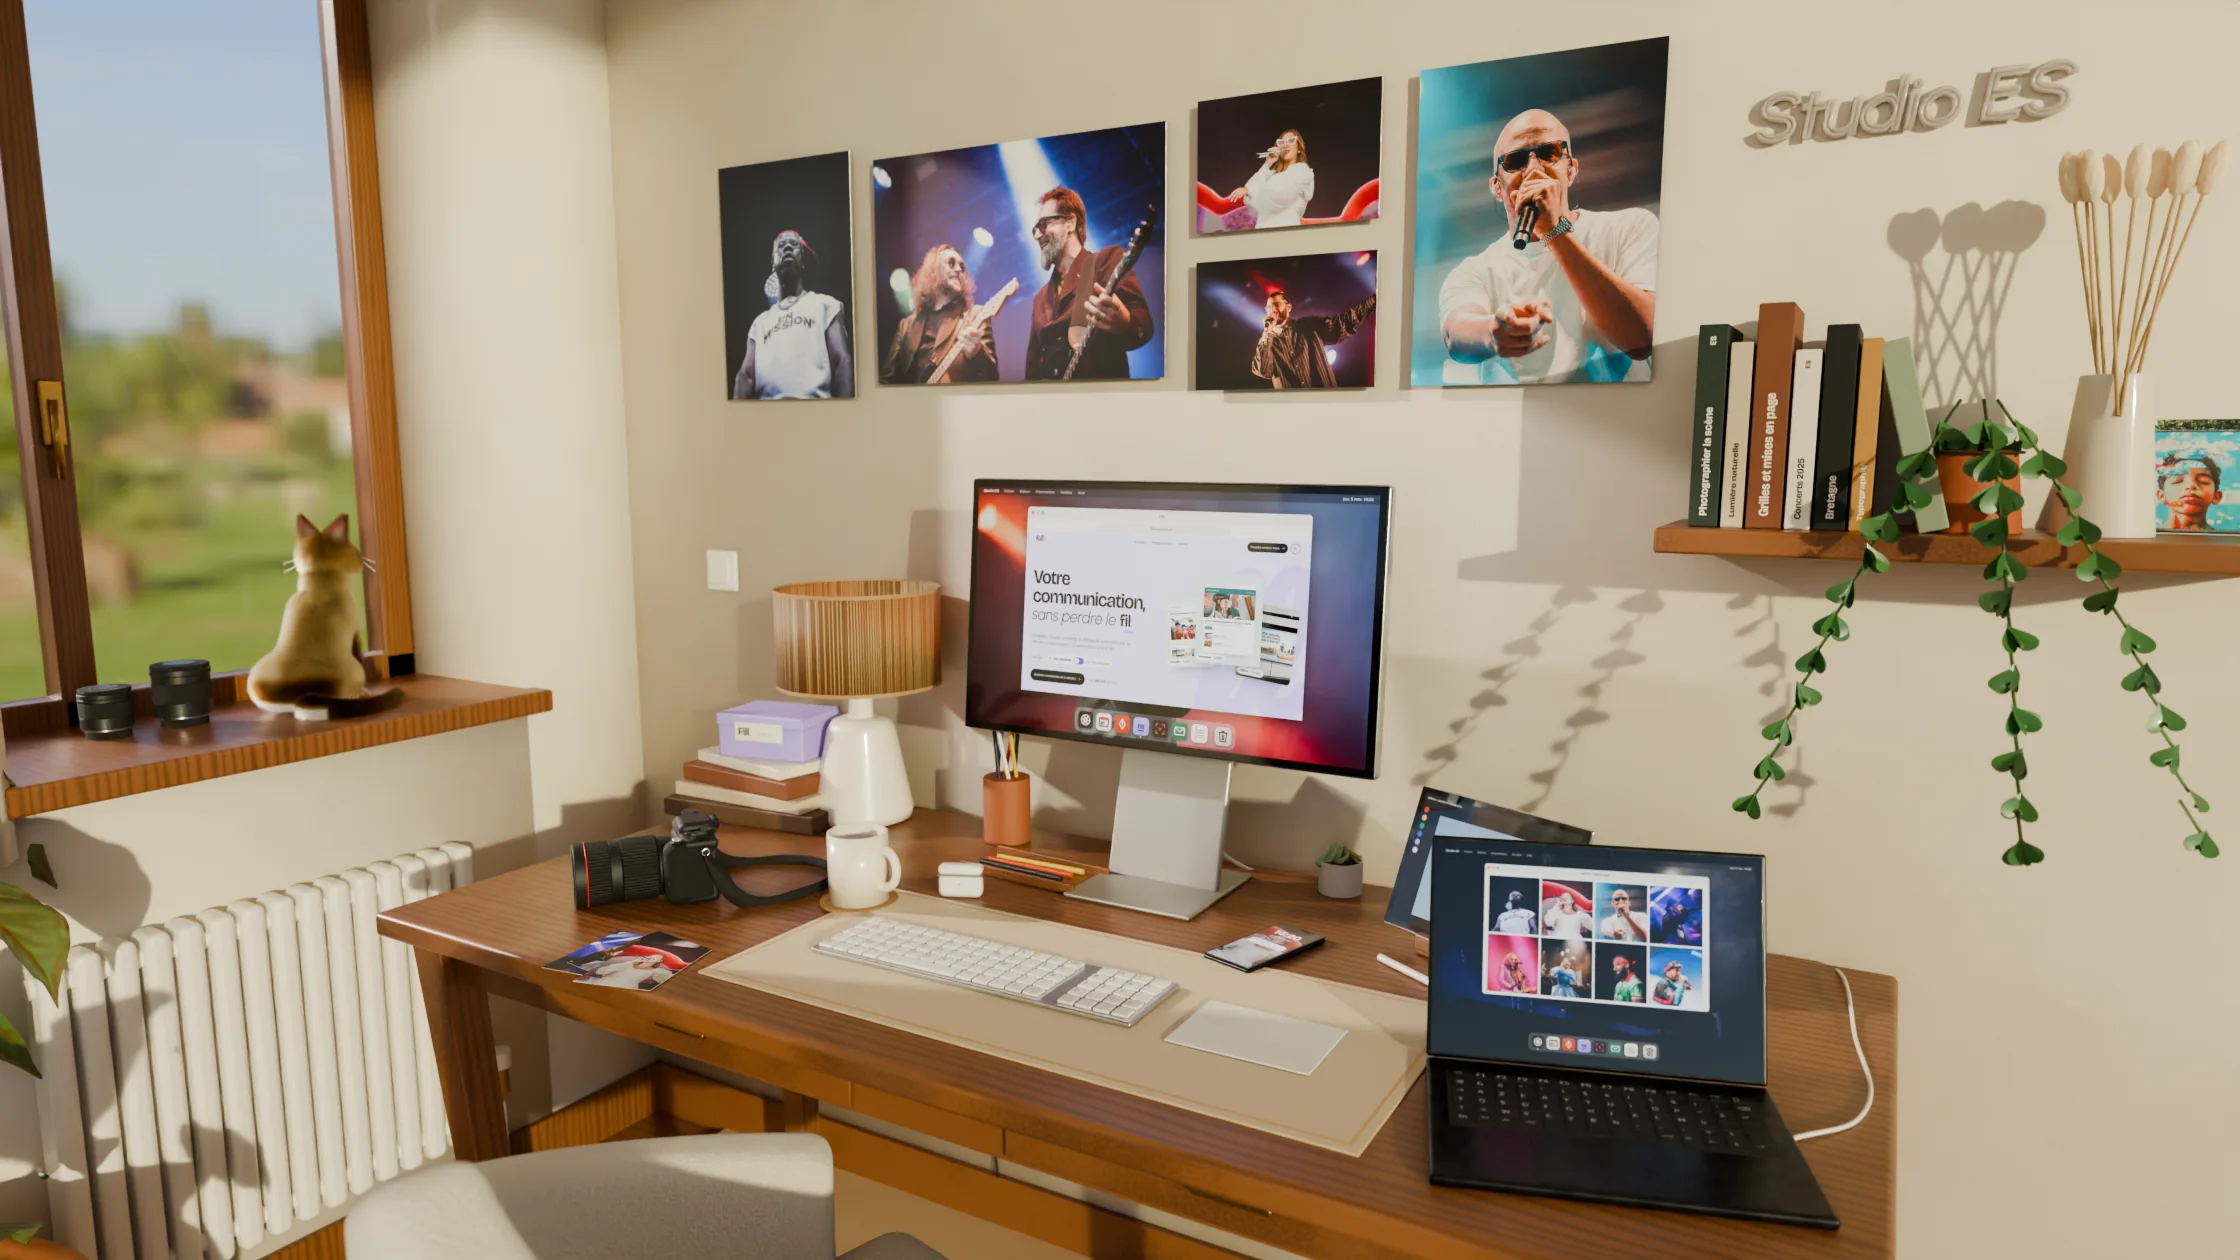
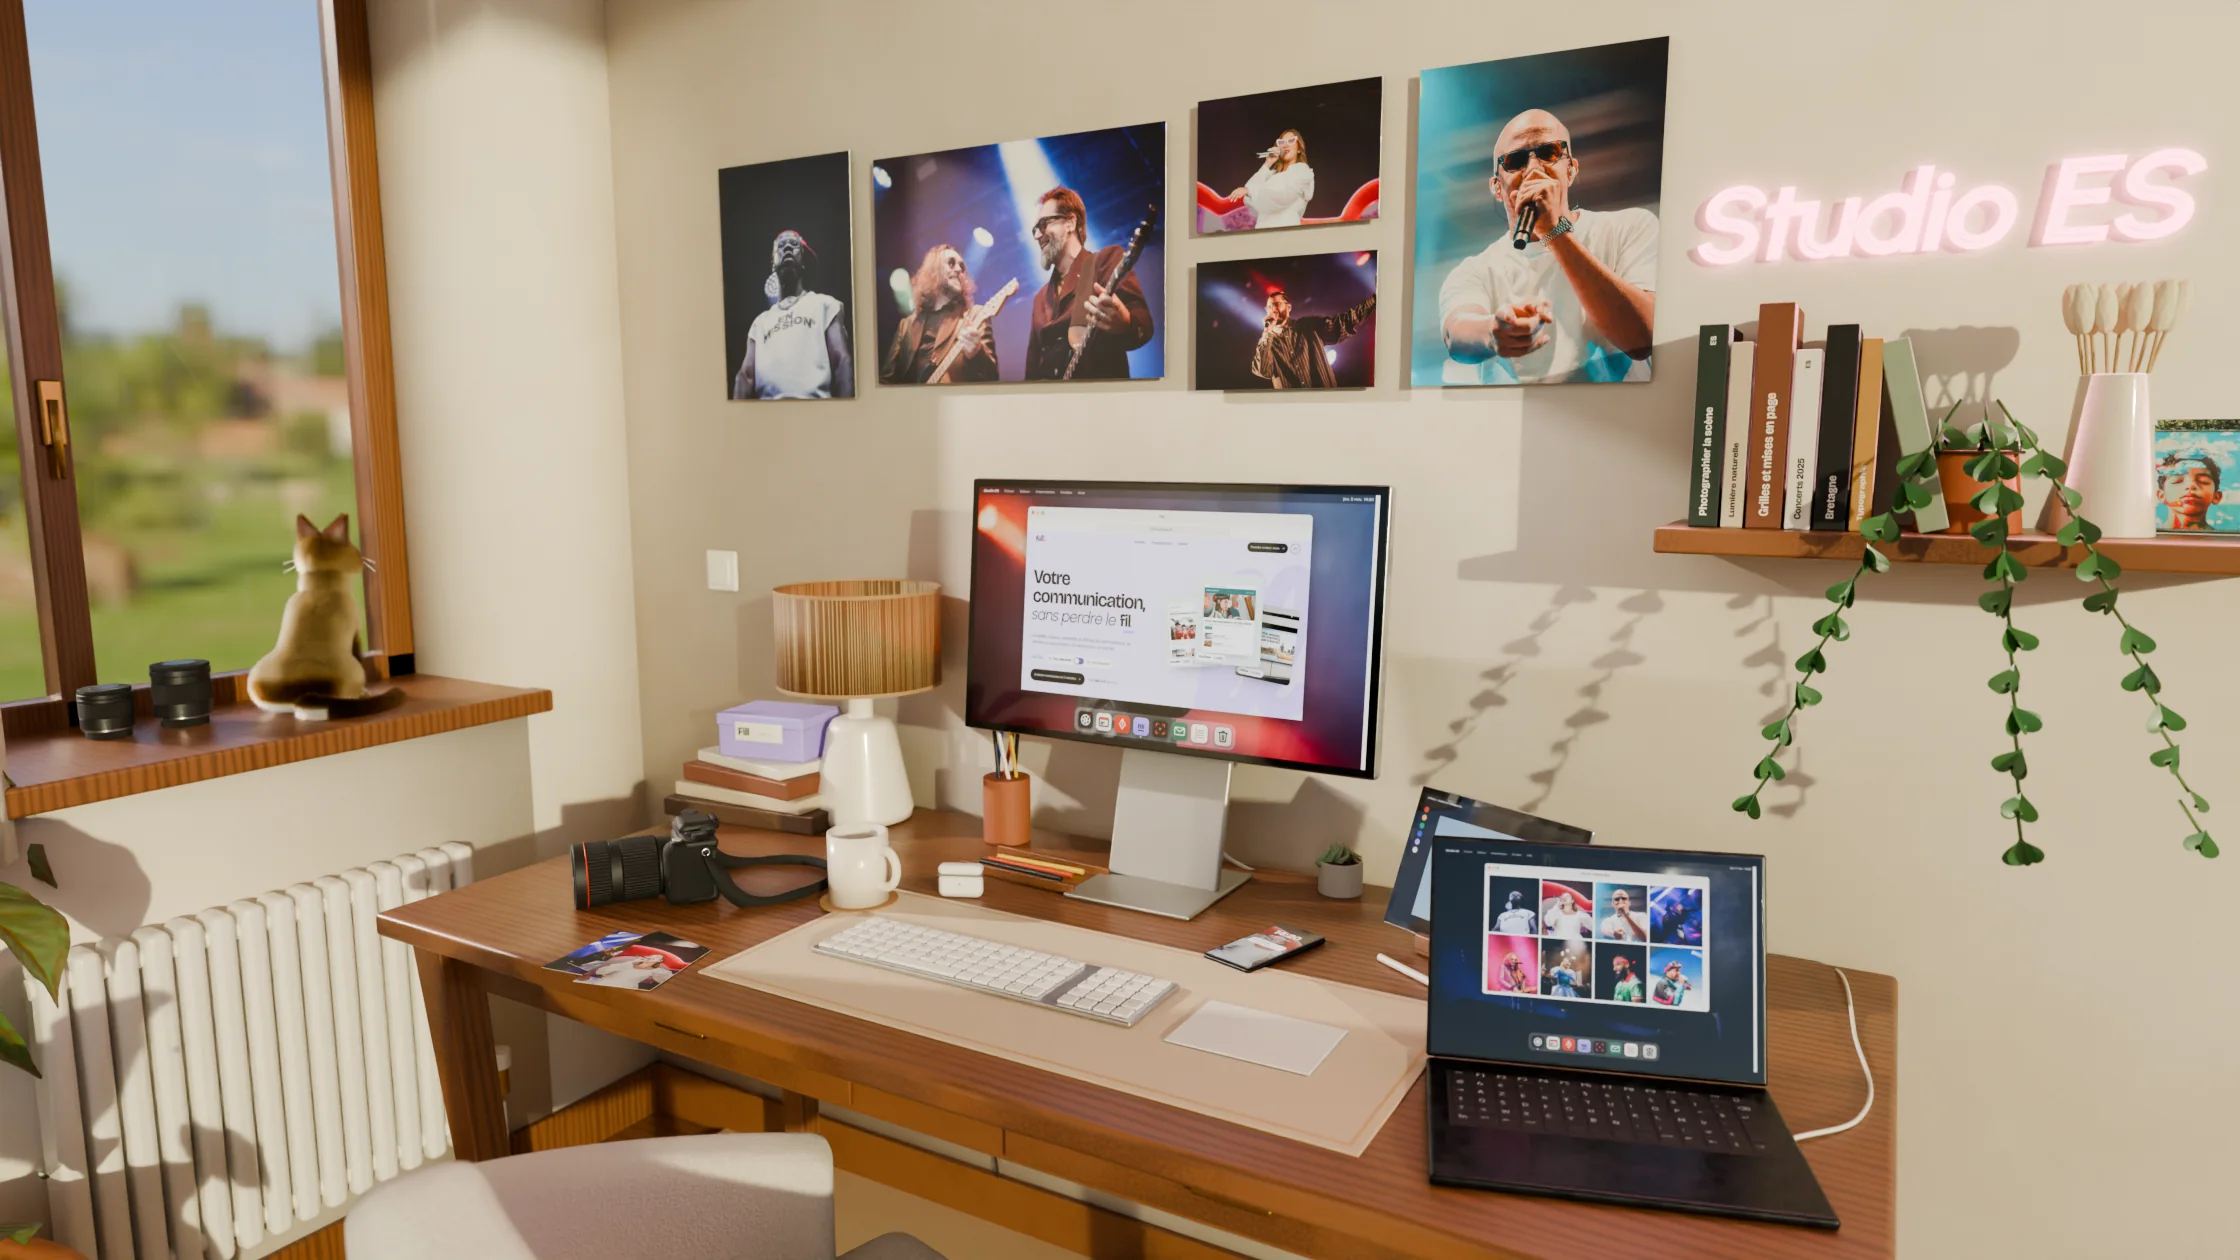
Bannière : avancée nette au défilement (parallaxe de profondeur), rendus nuit et jour avec la nouvelle enseigne, intégration des rendus
En cours, non publié.

Claude-Session: https://claude.ai/code/session_01C8UkoM7u44CkTFbZnWaAKK

diff --git a/js/atelier.js b/js/atelier.js
@@ -20,7 +20,7 @@ import { Bureau } from '/js/atelier/bureau.js?v=2';
   let dejaVu = false; try { dejaVu = !!sessionStorage.getItem('at-vu'); sessionStorage.setItem('at-vu', '1'); } catch (e) {}
   const INTRO = RM ? 0 : (dejaVu && !/[?&]arrivee/.test(location.search)) ? 1 : 2;
   const poseFond = () => { H.style.setProperty('--at-img', 'url("' + nom(lampe) + '")'); H.style.removeProperty('background'); };
-  if (INTRO) { H.classList.add('at-intro'); H.style.background = '#0F1013'; } else poseFond();
+  if (INTRO) { H.classList.add('at-intro'); H.style.background = SOIR ? '#0F1013' : '#16150F'; } else poseFond();
 
   /* ---------- panneau et puces (fonctionnent même sans WebGL) ---------- */
   let ouverte = null, vue = null;
@@ -91,7 +91,7 @@ import { Bureau } from '/js/atelier/bureau.js?v=2';
     /* ---------- shaders ---------- */
     const VS = 'attribute vec2 p;varying vec2 u;void main(){u=vec2(p.x*.5+.5,.5-p.y*.5);gl_Position=vec4(p,0.,1.);}';
     const FS = `precision highp float;varying vec2 u;
-uniform sampler2D tA,tB,tM,tD,tS,tP,tC,tK,tF,tG;uniform vec4 uW;uniform mat3 uFs,uFp,uFq,uGs,uGp,uGq;uniform vec4 uR,uDR,uRC,uKR,uAP;uniform vec2 uPar,uTx,uTea;uniform float uHovA,uMix,uHov,uT,uFl,uNe,uPl,uSt,uDu,uB,uK,uCM,uKF,uKOn,uCZ,uOn,uNm,uNj;uniform vec3 uE;uniform vec4 uNR;
+uniform sampler2D tA,tB,tM,tD,tS,tP,tC,tK,tF,tG;uniform vec4 uW;uniform mat3 uFs,uFp,uFq,uGs,uGp,uGq;uniform vec4 uR,uDR,uRC,uKR,uAP;uniform vec2 uPar,uTx,uTea;uniform float uHovA,uMix,uHov,uT,uFl,uNe,uPl,uSt,uDu,uB,uK,uCM,uKF,uKOn,uCZ,uOn,uNm,uNj;uniform vec3 uDol;uniform vec3 uE;uniform vec4 uNR;
 uniform mat3 uHs,uHp,uHl,uHs2,uHp2;
 float zid(vec2 q){return floor(texture2D(tM,q).r*255./20.+.5);}
 float h21(vec2 p){return fract(sin(dot(p,vec2(127.1,311.7)))*43758.5453);}
@@ -107,6 +107,7 @@ void main(){
   vec2 q=uR.xy+u*uR.zw;
   float dep=texture2D(tD,q).r;
   q+=uPar*(dep-.62)*vec2(.016,.011);
+  q-=(q-uDol.xy)*(dep-.76)*uDol.z;
   float z=zid(q);
   if(z==7.)q.x+=sin(uT*2.1+q.y*60.)*.0007*uPl;
   vec2 dn=max(abs(q-uNR.xy)-uNR.zw,0.);dn.x*=uTx.y/uTx.x;float nh=exp(-length(dn)/(uNR.w*3.+.015));
@@ -187,6 +188,7 @@ void main(){
     const IA = imA.width / imA.height, base = { x: (M.cadre || [.5, .5])[0], y: (M.cadre || [.5, .5])[1] };
     if (MOB && M.cibles && M.cibles.web) base.x = (M.cibles.web[0] + M.cibles.web[2]) / 2; /* mobile : de face, centré sur l'écran */
     let W = 1, Hh = 1, ech = 1, ec = 1, cx = base.x, cy = base.y, tcx = base.x, tcy = base.y, glisse = 0;
+    const cadreX = base.x;
     const rect = (s, x, y) => {
       const ca = W / Hh; let w = 1, h = 1; if (ca > IA) h = IA / ca; else w = ca / IA;
       w /= s * 1.035; h /= s * 1.035;
@@ -196,6 +198,8 @@ void main(){
     const taille = () => {
       const d = Math.min(devicePixelRatio || 1, MOB ? 2 : 1.75); W = H.clientWidth; Hh = H.clientHeight;
       C.width = Math.round(W * d); C.height = Math.round(Hh * d); gl.viewport(0, 0, C.width, C.height);
+      /* l'enseigne tient lieu de titre : dans une fenêtre étroite, le cadre glisse à droite pour la garder entière */
+      if (!MOB) { const w = Math.min(1, W / Hh / IA) / 1.035, bx = Math.max(cadreX, Math.min(1 - w / 2, NEON[0] + NEON[2] + .014 - w / 2)), dx = bx - base.x; base.x = bx; cx += dx; tcx += dx; }
     };
     taille(); addEventListener('resize', taille);
     let tw = null; // mouvement de caméra en cours
@@ -218,10 +222,10 @@ void main(){
     const chargeClose = (id) => closeIm[id] || (closeIm[id] = charge(R + 'c-' + id + '-' + moment + '.webp').catch(() => null));
     const volIm = {}, unites = gl.getParameter(gl.MAX_TEXTURE_IMAGE_UNITS);
     const chargeVol = (id) => volIm[id] || (volIm[id] = (VOLS[id] && unites >= 10 && !RM ? Promise.all(Array.from({ length: NV - 1 }, (_, k) => charge(R + 'v/' + id + '-' + moment + '-' + String(k + 1).padStart(2, '0') + '.webp'))) : Promise.reject()).catch(() => null));
-    let dMode = null, defile = false, spD = -1, imPh = null, enC = null;
+    let defile = false, spD = -1, enC = null, dolOn = false;
     if (!MOB && M.closeups) setTimeout(() => {
-      let k = chargeClose('photo').then(im => { imPh = im; }).then(() => chargeVol('photo')).then(fr => { if (fr) volIm.photo.v = fr; });
-      ['web', 'graph', 'fill', 'contact'].forEach(id => { k = k.then(() => chargeClose(id)).then(() => chargeVol(id)); });
+      let k = Promise.resolve();
+      ['photo', 'web', 'graph', 'fill', 'contact'].forEach(id => { k = k.then(() => chargeClose(id)).then(() => chargeVol(id)); });
     }, 1200);
     let cz = null, cm = 0, cmT = null, cT0 = 0, jeton = 0, vol = null;
     const HS2 = CL.web ? homo(CL.web.mon_screen) : null; if (HS2) gl.uniformMatrix3fv(U('uHs2'), false, HS2);
@@ -423,7 +427,8 @@ void main(){
           } else if (soirI) { gl.uniform1f(U('uNm'), f); it.mix = sm(TL, TL + .5, a); }
           else ne0 = f;
           if (it.m === 2) {
-            gl.uniform3f(U('uE'), reveil(a, 1.7), reveil(a, 2.1), reveil(a, 1.95));
+            /* de jour, les écrans se réveillent l'un après l'autre ; le soir ils veillent déjà, seule lumière de la pièce */
+            if (!SOIR) gl.uniform3f(U('uE'), reveil(a, 1.7), reveil(a, 2.1), reveil(a, 1.95));
             const p = Math.min(1, Math.max(0, (a - 1.35) / 2.2)), e = p < .5 ? 4 * p * p * p : 1 - Math.pow(-2 * p + 2, 3) / 2;
             ec = ech = vI[0] + (1 - vI[0]) * e; cx = tcx = vI[1] + (base.x + glisse - vI[1]) * e; cy = tcy = vI[2] + (base.y - vI[2]) * e;
           }
@@ -433,7 +438,6 @@ void main(){
       }
       /* défilement : la caméra entre dans la pièce, vers le mur de photos */
       const sp = it.fin ? Math.min(1, Math.max(0, scrollY / (Hh * .8))) : 0;
-      if (sp <= 0) dMode = null; else if (!dMode) dMode = (!MOB && imPh && NV && volIm.photo && volIm.photo.v) ? 'vol' : 'zoom';
       defile = sp > 0 && !ouverte && !vol && cm < .01;
       if (sp !== spD) { spD = sp; H.style.setProperty('--sd', sp.toFixed(3)); }
       if (tw) {
@@ -480,19 +484,12 @@ void main(){
         if (i >= 1) lie(8, vol.id, i, i + 1); if (i + 1 <= NV - 1) lie(9, vol.id, i + 1, i);
         gl.uniform4f(U('uW'), i === 0 ? 1 - b : 0, i >= 1 ? 1 - b : 0, i + 1 <= NV - 1 ? b : 0, i + 1 === NV ? b : 0);
         if (fini) { const f = vol.fin; vol = null; if (f) f(); }
-      } else if (defile && dMode === 'vol') {
-        if (enC !== 'photo') { maj(6, T.C, imPh); gl.uniform1f(U('uCZ'), 0); enC = 'photo'; }
-        const u = NV * sp, Rv = lerpR(rectBase(), rectClose(t, 0), lisse(sp));
-        gl.uniform4fv(U('uR'), Rv); gl.uniform4fv(U('uRC'), Rv);
-        const i = Math.min(NV - 1, Math.floor(u)), b = u - i;
-        if (i >= 1) lie(8, 'photo', i, i + 1); if (i + 1 <= NV - 1) lie(9, 'photo', i + 1, i);
-        gl.uniform4f(U('uW'), i === 0 ? 1 - b : 0, i >= 1 ? 1 - b : 0, i + 1 <= NV - 1 ? b : 0, i + 1 === NV ? b : 0);
       } else {
         gl.uniform4f(U('uW'), 1 - cm, 0, 0, cm); if (cm > 0) gl.uniform4fv(U('uRC'), rectClose(t));
-        if (defile) { /* sans travelling rendu (mobile) : une poussée vers le mur de photos et l'enseigne */
-          const b = (M.cibles && M.cibles.photo) || [.3, .1, .7, .3], e = lisse(sp), ty2 = MOB ? (NEON[1] + (b[1] + b[3]) / 2) / 2 : (b[1] + b[3]) / 2;
-          gl.uniform4fv(U('uR'), rect(ec + (MOB ? .32 : .5) * e, cx + (MOB ? 0 : ((b[0] + b[2]) / 2 - cx) * e), cy + (ty2 - cy) * e));
-        }
+        if (defile) { /* la caméra avance vers le mur de photos : poussée nette sur le rendu, les plans proches glissent plus vite (profondeur) */
+          const b = (M.cibles && M.cibles.photo) || [.3, .1, .7, .3], e = lisse(sp), ty2 = MOB ? (NEON[1] + (b[1] + b[3]) / 2) / 2 : (b[1] + b[3]) / 2, fx = MOB ? cx : cx + ((b[0] + NEON[0] + NEON[2]) / 2 - cx) * e, fy = cy + (ty2 - cy) * e;
+          gl.uniform4fv(U('uR'), rect(ec + (MOB ? .32 : .42) * e, fx, fy)); gl.uniform3f(U('uDol'), fx, fy, (MOB ? .24 : .3) * e); dolOn = true;
+        } else if (dolOn) { gl.uniform3f(U('uDol'), .5, .5, 0); dolOn = false; }
       }
       if (kIm && lampe === lampe0 && mixT < 0 && !RM && it.fin) { gl.uniform1f(U('uKF'), (el * 6) % 48); gl.uniform1f(U('uKOn'), 1); } else gl.uniform1f(U('uKOn'), 0);
       gl.drawArrays(gl.TRIANGLES, 0, 3);

diff --git a/_src/atelier/integre.py b/_src/atelier/integre.py
@@ -1,0 +1,14 @@
+"""Intègre les rendus de /tmp/rd/fin dans le site sans perdre les métadonnées déjà publiées
+(plans rapprochés, chat, travellings) quand le lot en cours ne les recalcule pas."""
+import json, os, shutil, subprocess, sys
+R = '/home/claude/site/js/atelier/r/'; T = '/tmp/rd/_integre'; shutil.rmtree(T, ignore_errors=True); os.makedirs(T)
+ici = os.path.dirname(os.path.abspath(__file__))
+subprocess.run([sys.executable, os.path.join(ici, 'process.py')], env=dict(os.environ, SORTIE=T), check=True, stdout=subprocess.DEVNULL)
+for v in 'lp':
+    f = f'{T}/{v}.json'
+    if not os.path.exists(f): continue
+    neuf = json.load(open(f)); vieux = json.load(open(R + v + '.json')) if os.path.exists(R + v + '.json') else {}
+    for k, x in vieux.items():
+        if k not in neuf or (k in ('close', 'chat', 'vols') and not neuf[k]) or (k == 'closeups' and x): neuf[k] = x
+    json.dump(neuf, open(f, 'w'), separators=(',', ':'))
+for f in sorted(os.listdir(T)): shutil.copy2(f'{T}/{f}', R + f); print(f, os.path.getsize(R + f))
